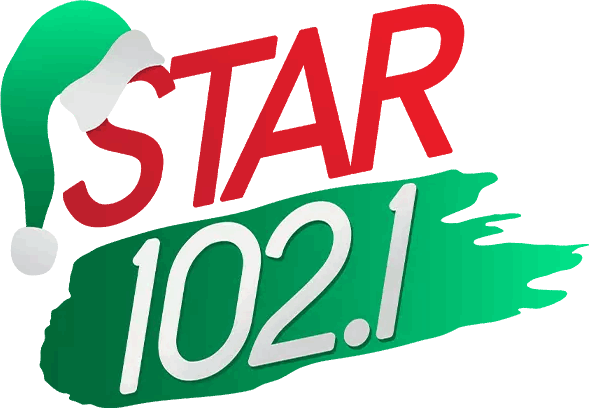
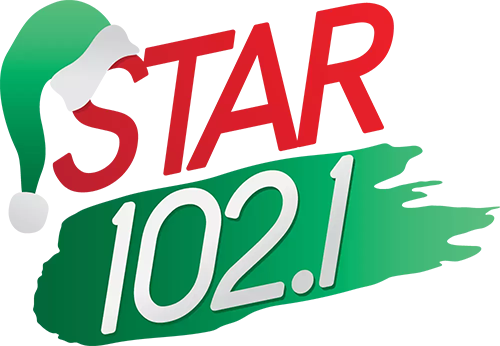
station updates

diff --git a/web/stations/stations-america.js b/web/stations/stations-america.js
@@ -1962,7 +1962,7 @@ var stations = {
         },
         {
             name: "Q102.7",
-            logo: "stations/images-america/colorado_springs_pueblo/Q102.7.png",
+            logo: "stations/images-america/colorado_springs_pueblo/Q102.7_christmas.png",
             url: "https://atsradio.herokuapp.com/index.php?ats=https://playerservices.streamtheworld.com/api/livestream-redirect/KBIQFMAAC_SC"
         },
         {
@@ -2702,7 +2702,7 @@ var stations = {
         },
         {
             name: "KOOL 99.1",
-            logo: "stations/images-america/eugene/Kool 99.1.png",
+            logo: "stations/images-america/eugene/KOOL 99.1_christmas.png",
             url: "https://us9.maindigitalstream.com/ssl/KODZ"
         },
         {
@@ -10000,7 +10000,7 @@ var stations = {
         },
         {
             name: "94.5 Bay FM",
-            logo: "stations/images-america/san_francisco/94.5 Bay FM.png",
+            logo: "stations/images-america/san_francisco/94.5 Bay FM_christmas.png",
             url: "https://atsradio.herokuapp.com/index.php?ats=https://live.wostreaming.net/direct/alphacorporate-kbayfmaac-ibc4"
         },
         {
@@ -22152,7 +22152,7 @@ var stations_c2c = {
         },
         {
             name: "97.1 WASH-FM",
-            logo: "stations/images-america/c2c/washington_dc/97.1 WASH-FM.png",
+            logo: "stations/images-america/c2c/washington_dc/97.1 WASH-FM_christmas.png",
             url: "https://stream.revma.ihrhls.com/zc2501/hls.m3u8"
         },
         {
@@ -33626,6 +33626,11 @@ var stations_c2c = {
             url: "https://stream.revma.ihrhls.com/zc2209/hls.m3u8"
         },
         {
+            name: "Christmas 97.3",
+            logo: "stations/images-america/c2c/bryan_tx/KAGC 97.3_christmas.png",
+            url: "https://ice42.securenetsystems.net/KAGCAM"
+        },
+        {
             name: "Willy 97.7",
             logo: "stations/images-america/c2c/bryan_tx/Willy 97.7.png",
             url: "https://ice24.securenetsystems.net/WILLY97"
@@ -33923,7 +33928,7 @@ var stations_c2c = {
         },
         {
             name: "Star 102.1",
-            logo: "stations/images-america/c2c/dallas_tx/Star 102.1.png",
+            logo: "stations/images-america/c2c/dallas_tx/Star 102.1_christmas.png",
             url: "https://stream.revma.ihrhls.com/zc2815/hls.m3u8"
         },
         {
